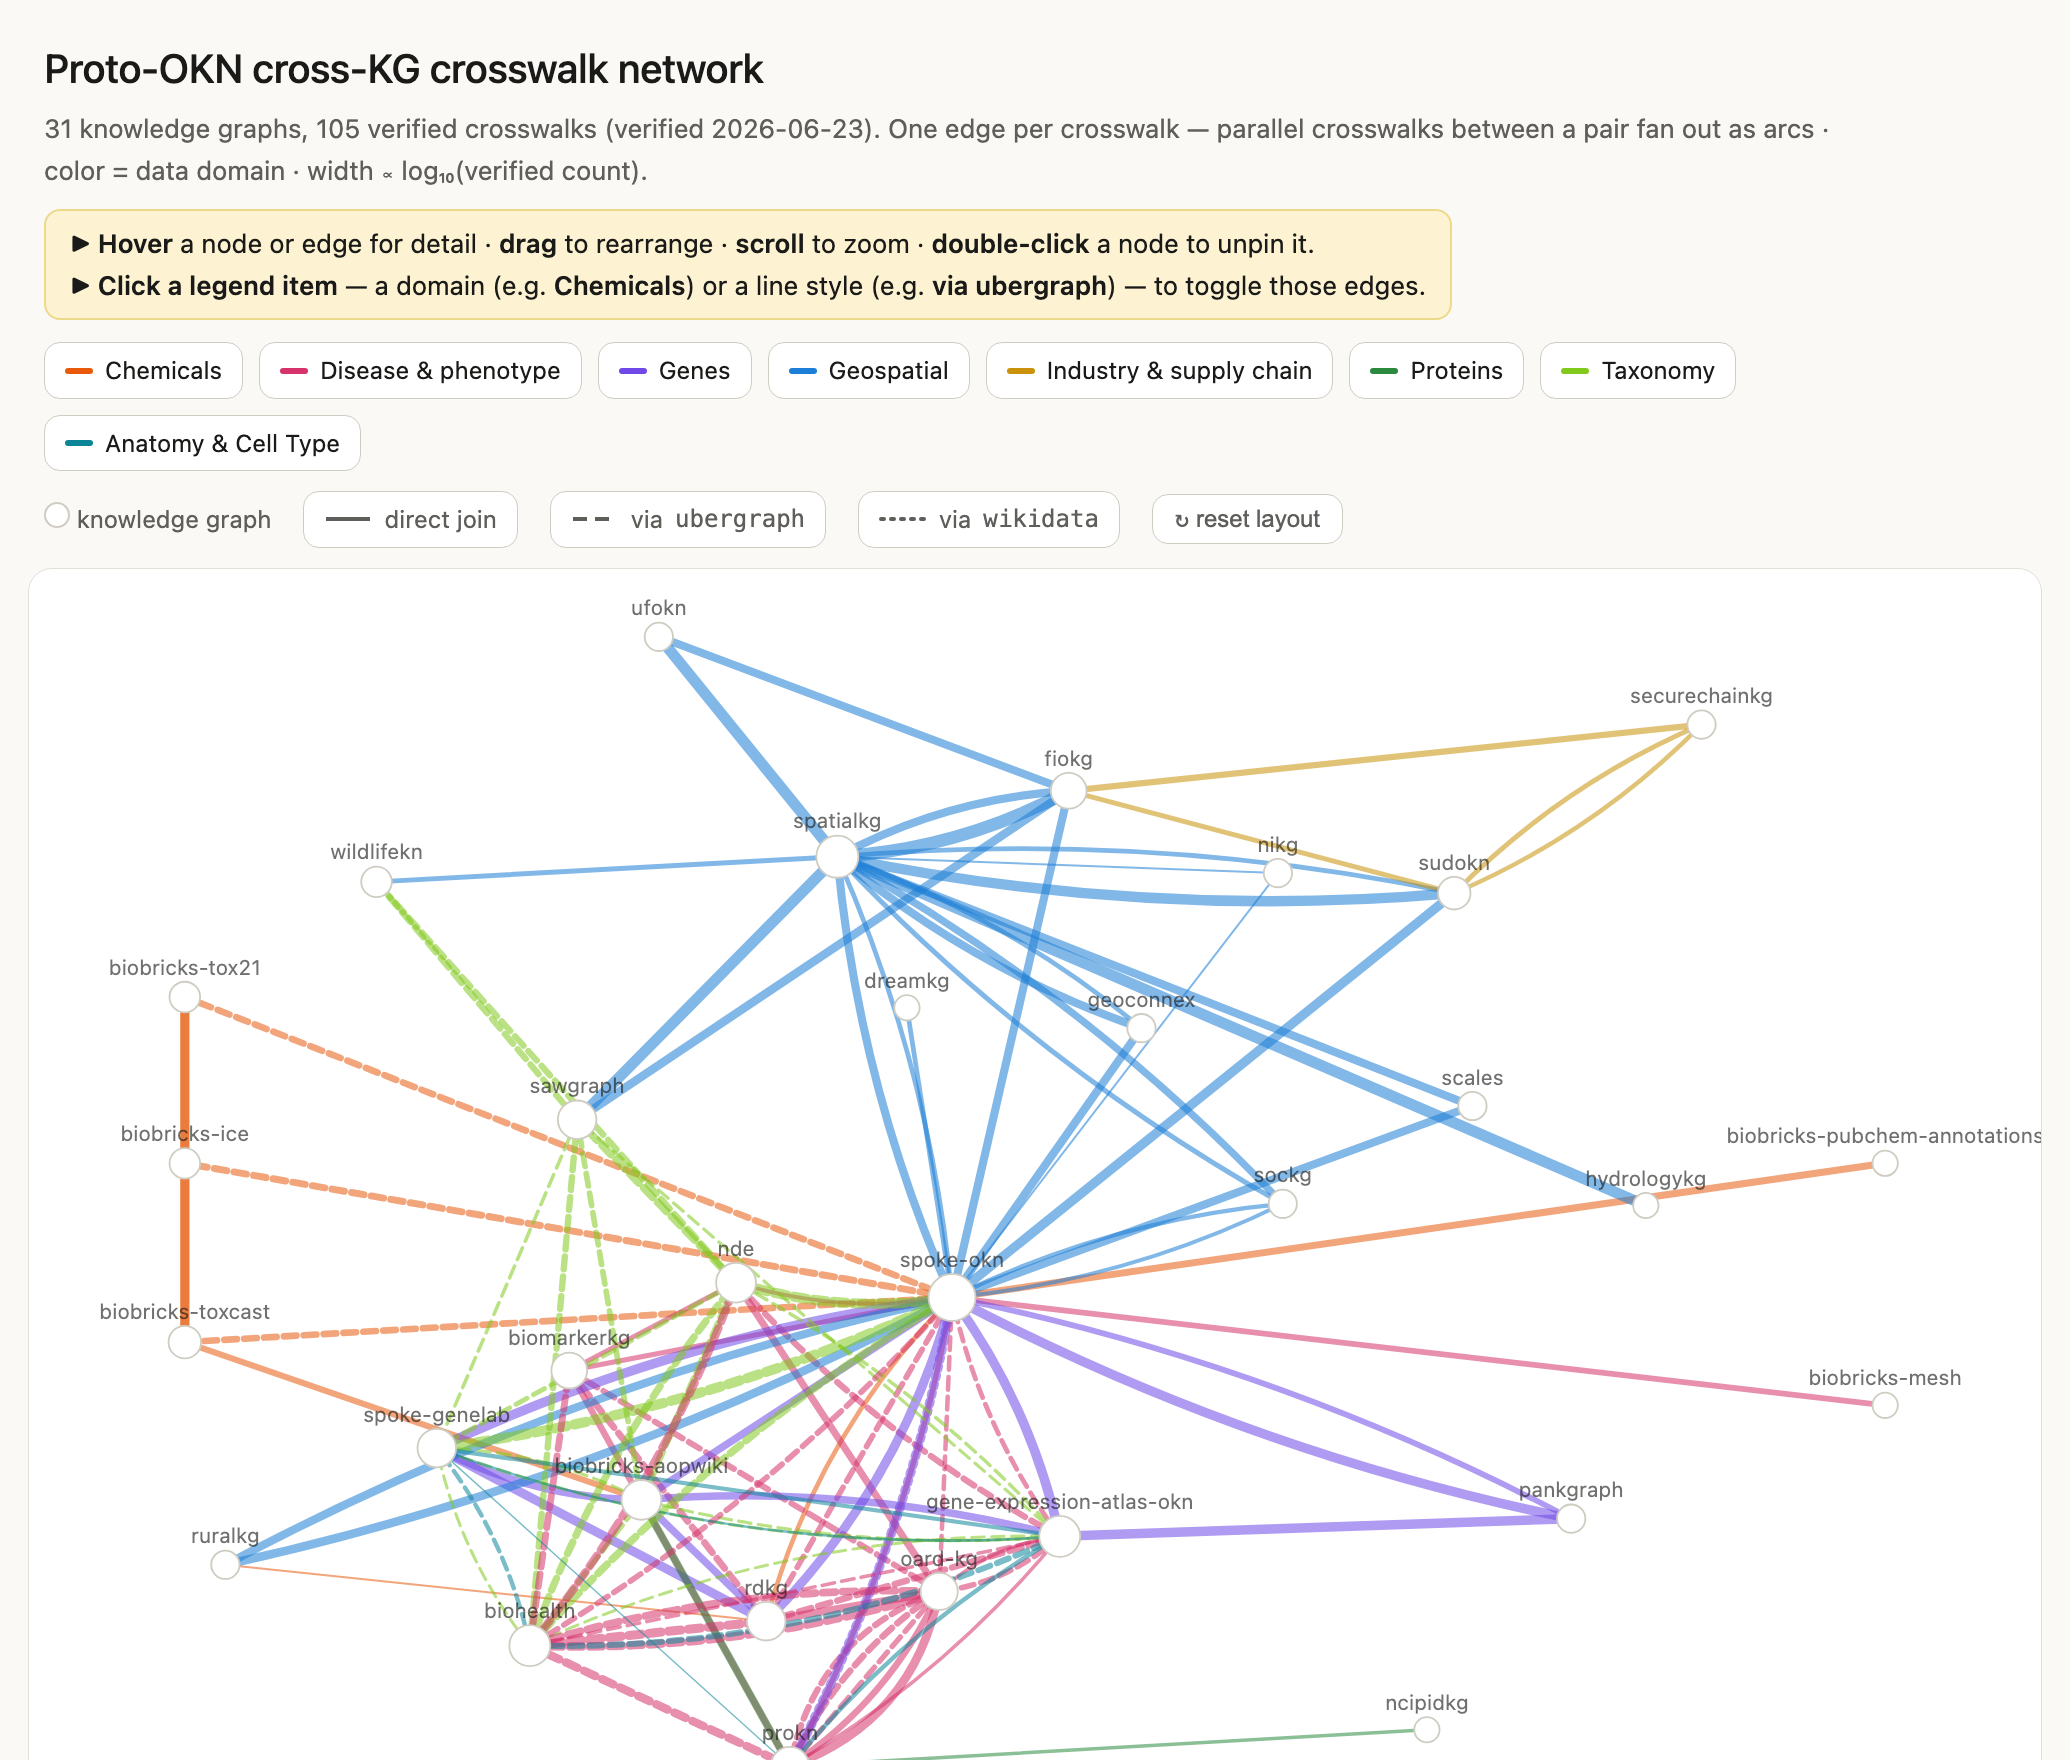
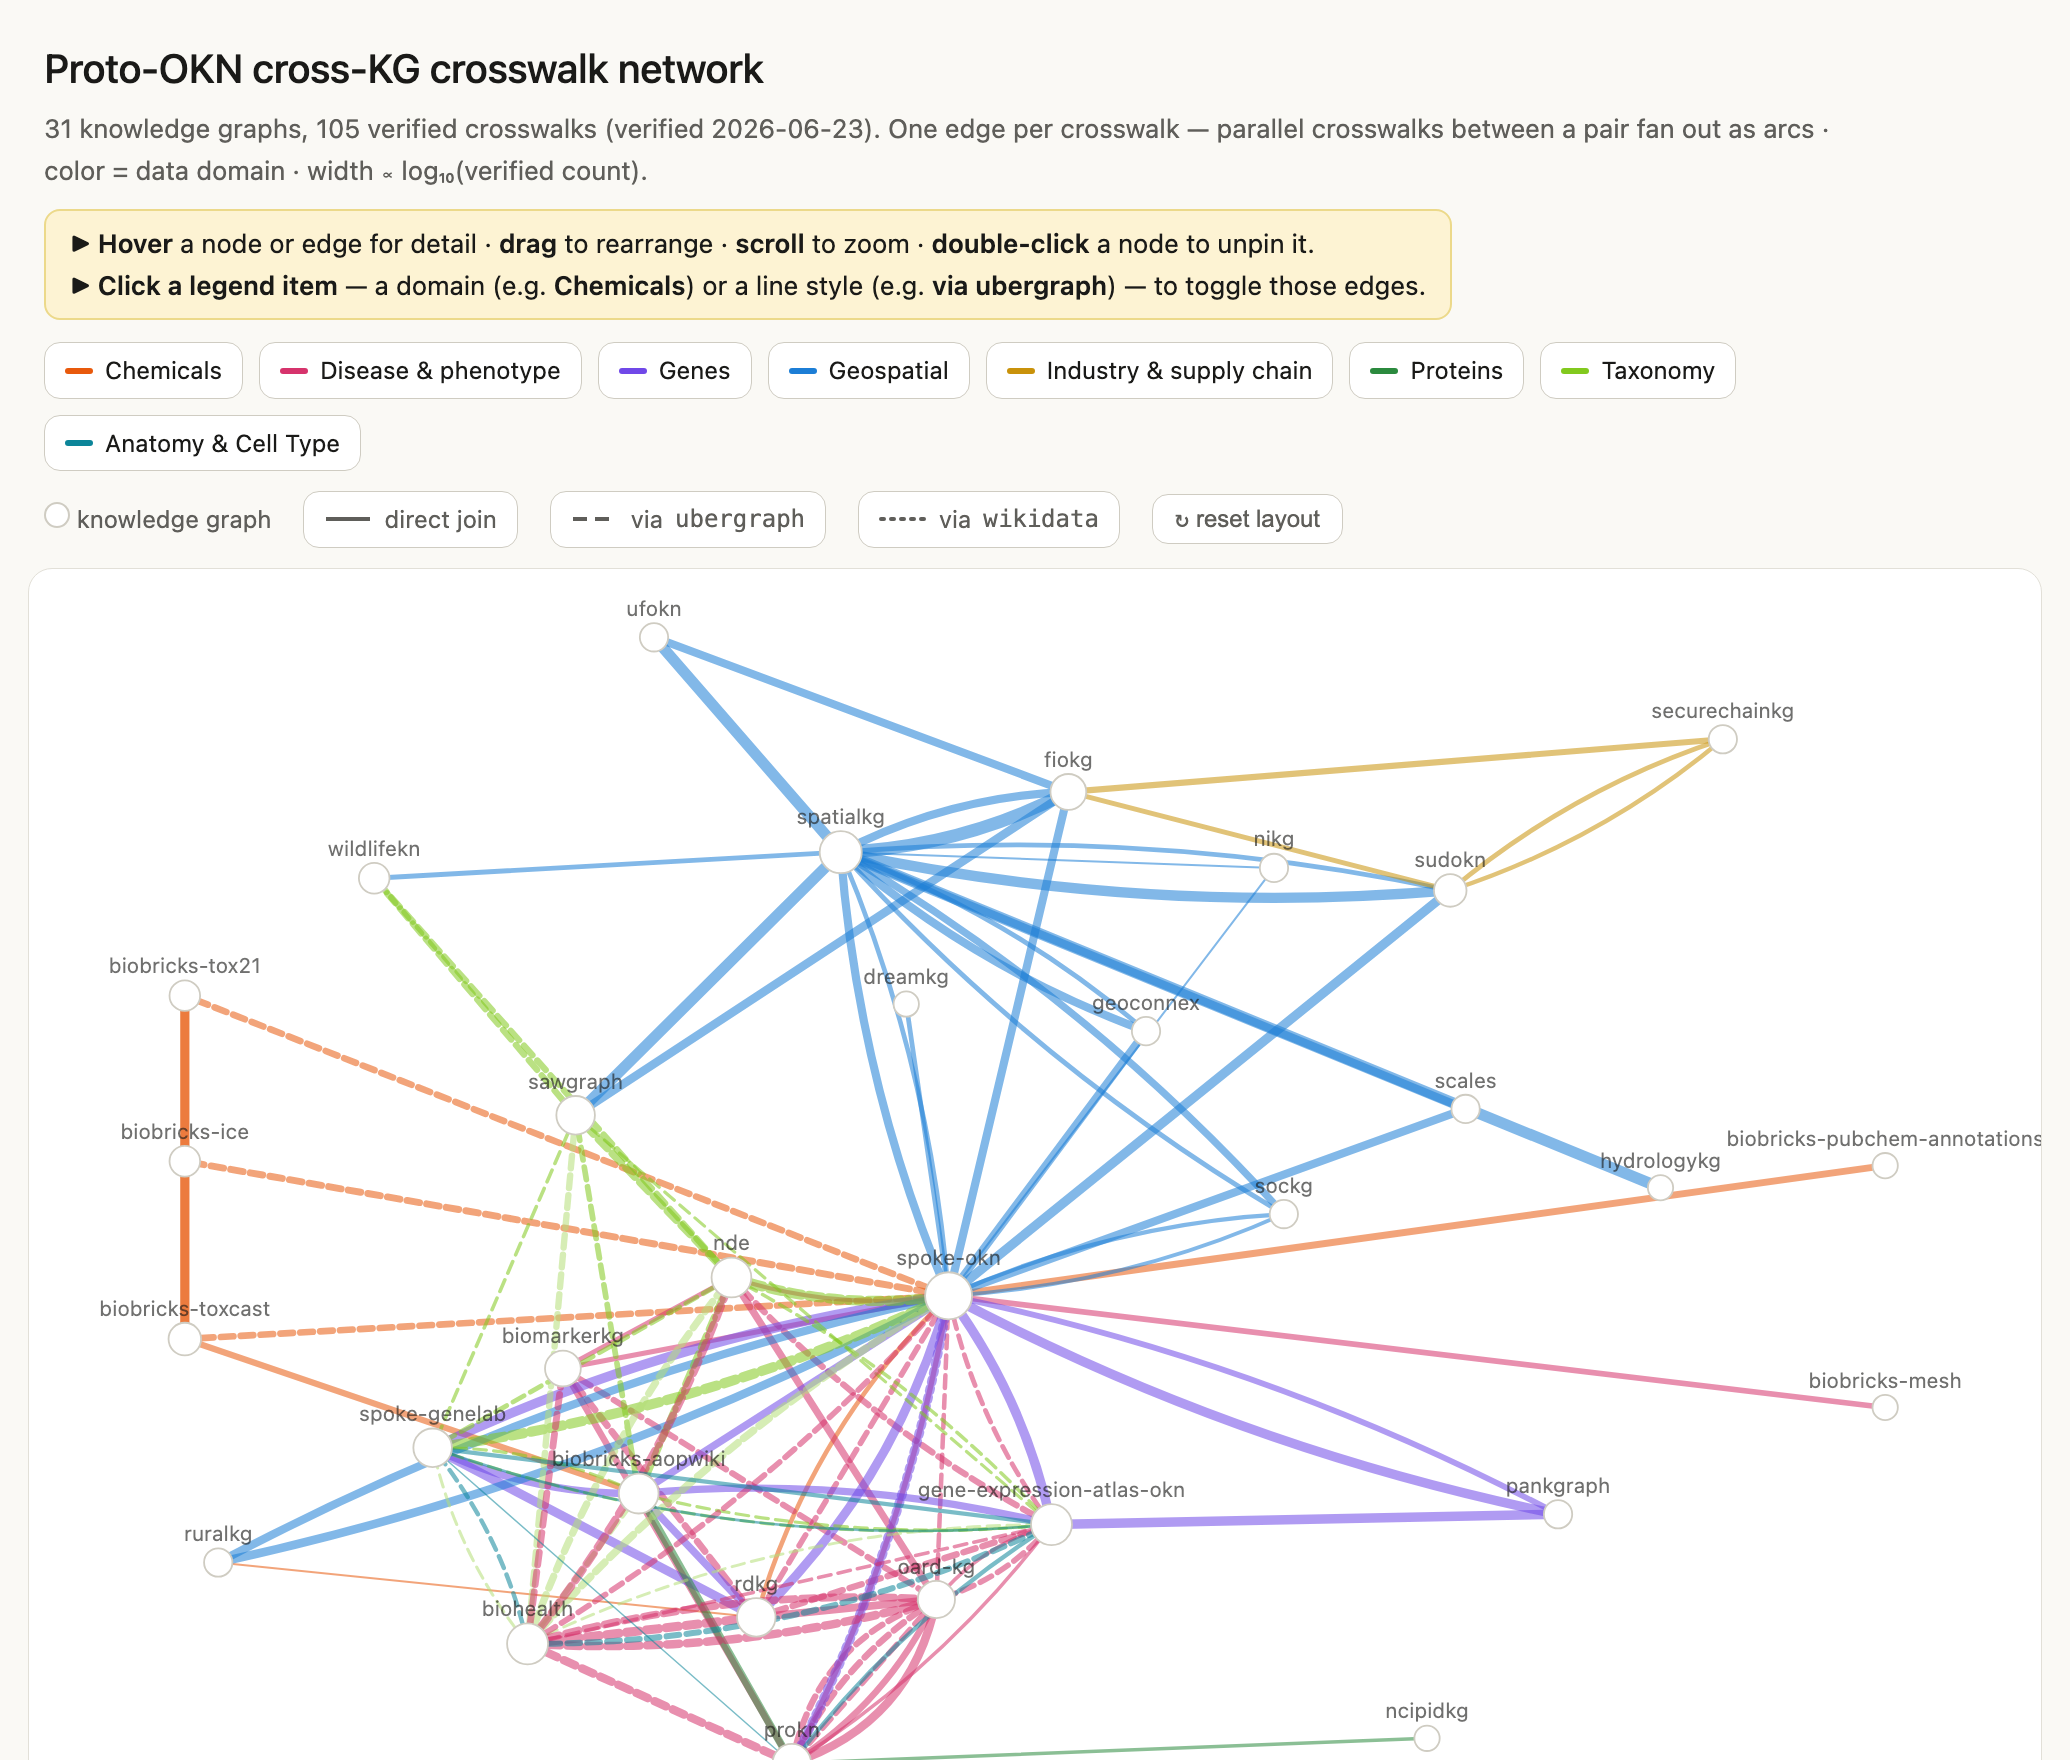
docs: lighter Taxonomy shade for biohealth name-matched taxon overlaps
The 6 BioHealthKG taxon overlaps are name-matched (approximate, no NCBITaxon
ids), so render them in a lighter lime (#B4DE78) than the exact-id Taxonomy
edges (#82C91E) to flag the weaker match, keeping the same legend entry.
Regenerate the PNG.

diff --git a/docs/crosswalks/crosswalk-network.html b/docs/crosswalks/crosswalk-network.html
@@ -128,8 +128,11 @@ const b2Var=()=>getComputedStyle(document.body).getPropertyValue('--border2').tr
 const mutVar=()=>getComputedStyle(document.body).getPropertyValue('--muted').trim();
 
 const dashFor=d=>{const k=(d.key||"");return /ubergraph/i.test(k)?"7,4":(/wikidata/i.test(k)?"1.5,3.5":null);};
+// Approximate (name-matched) taxon overlaps — e.g. biohealth, which has no
+// NCBITaxon ids — get a lighter shade of the Taxonomy colour to flag the weaker match.
+const colorFor=d=>(d.dom==="T"&&/name-match/i.test(d.key||""))?"#B4DE78":DOM[d.dom][1];
 const link=linkG.selectAll("path").data(links).join("path")
-  .attr("stroke",d=>DOM[d.dom][1]).attr("stroke-width",d=>lw(d.maxW)).attr("stroke-opacity",0.55)
+  .attr("stroke",d=>colorFor(d)).attr("stroke-width",d=>lw(d.maxW)).attr("stroke-opacity",0.55)
   .attr("stroke-dasharray",d=>dashFor(d)).style("cursor","pointer");
 const node=nodeG.selectAll("circle").data(nodes).join("circle")
   .attr("r",d=>nr(d)).attr("fill",d=>d.bridge?mutVar():surfVar())
@@ -155,7 +158,7 @@ function hideTip(){tip.style.opacity=0;}
 
 link.on("mousemove",function(ev,d){
   const wv=Array.isArray(d.w)?("exact "+d.w[0]+" / clade "+Math.max(d.w[1],d.w[2]).toLocaleString()):d.w.toLocaleString();
-  showTip(`<b>${d.source.id||d.source}</b> &harr; <b>${d.target.id||d.target}</b><br><span style="display:inline-block;width:8px;height:8px;border-radius:2px;background:${DOM[d.dom][1]};margin-right:5px"></span>${d.key} &middot; <b>${wv}</b>`,ev);
+  showTip(`<b>${d.source.id||d.source}</b> &harr; <b>${d.target.id||d.target}</b><br><span style="display:inline-block;width:8px;height:8px;border-radius:2px;background:${colorFor(d)};margin-right:5px"></span>${d.key} &middot; <b>${wv}</b>`,ev);
 }).on("mouseleave",hideTip);
 
 node.on("mouseover",function(ev,d){
